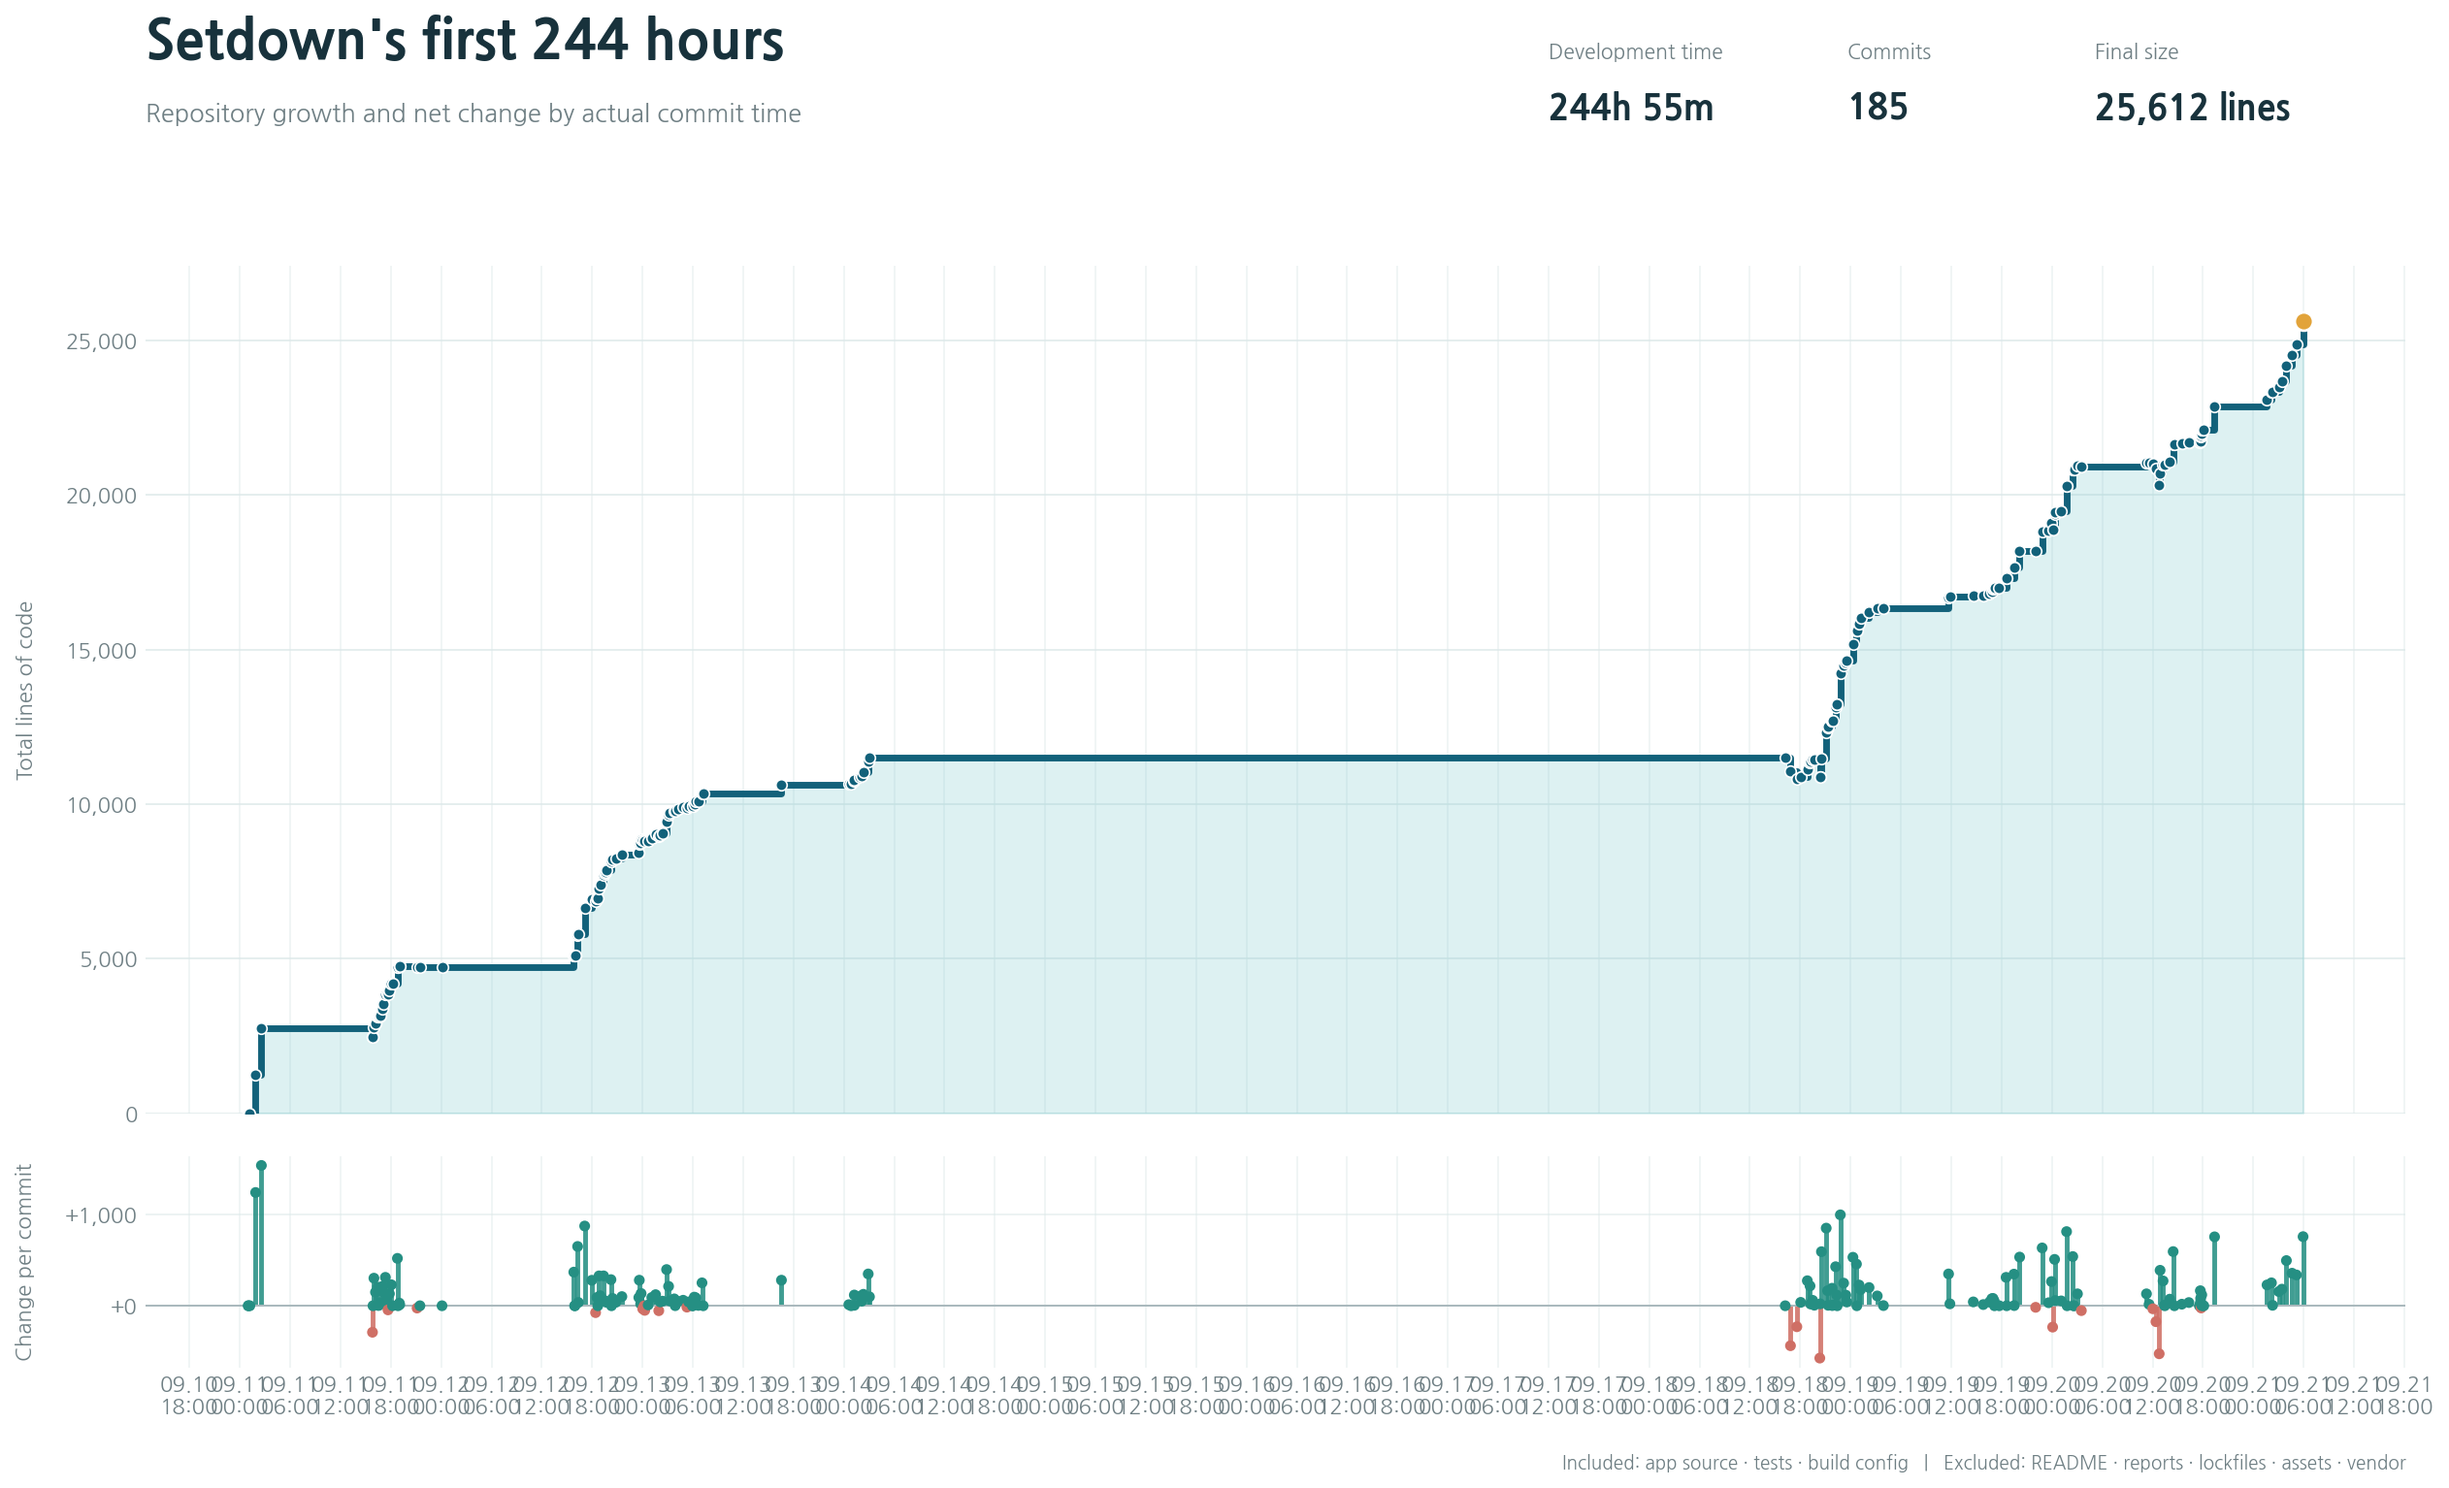
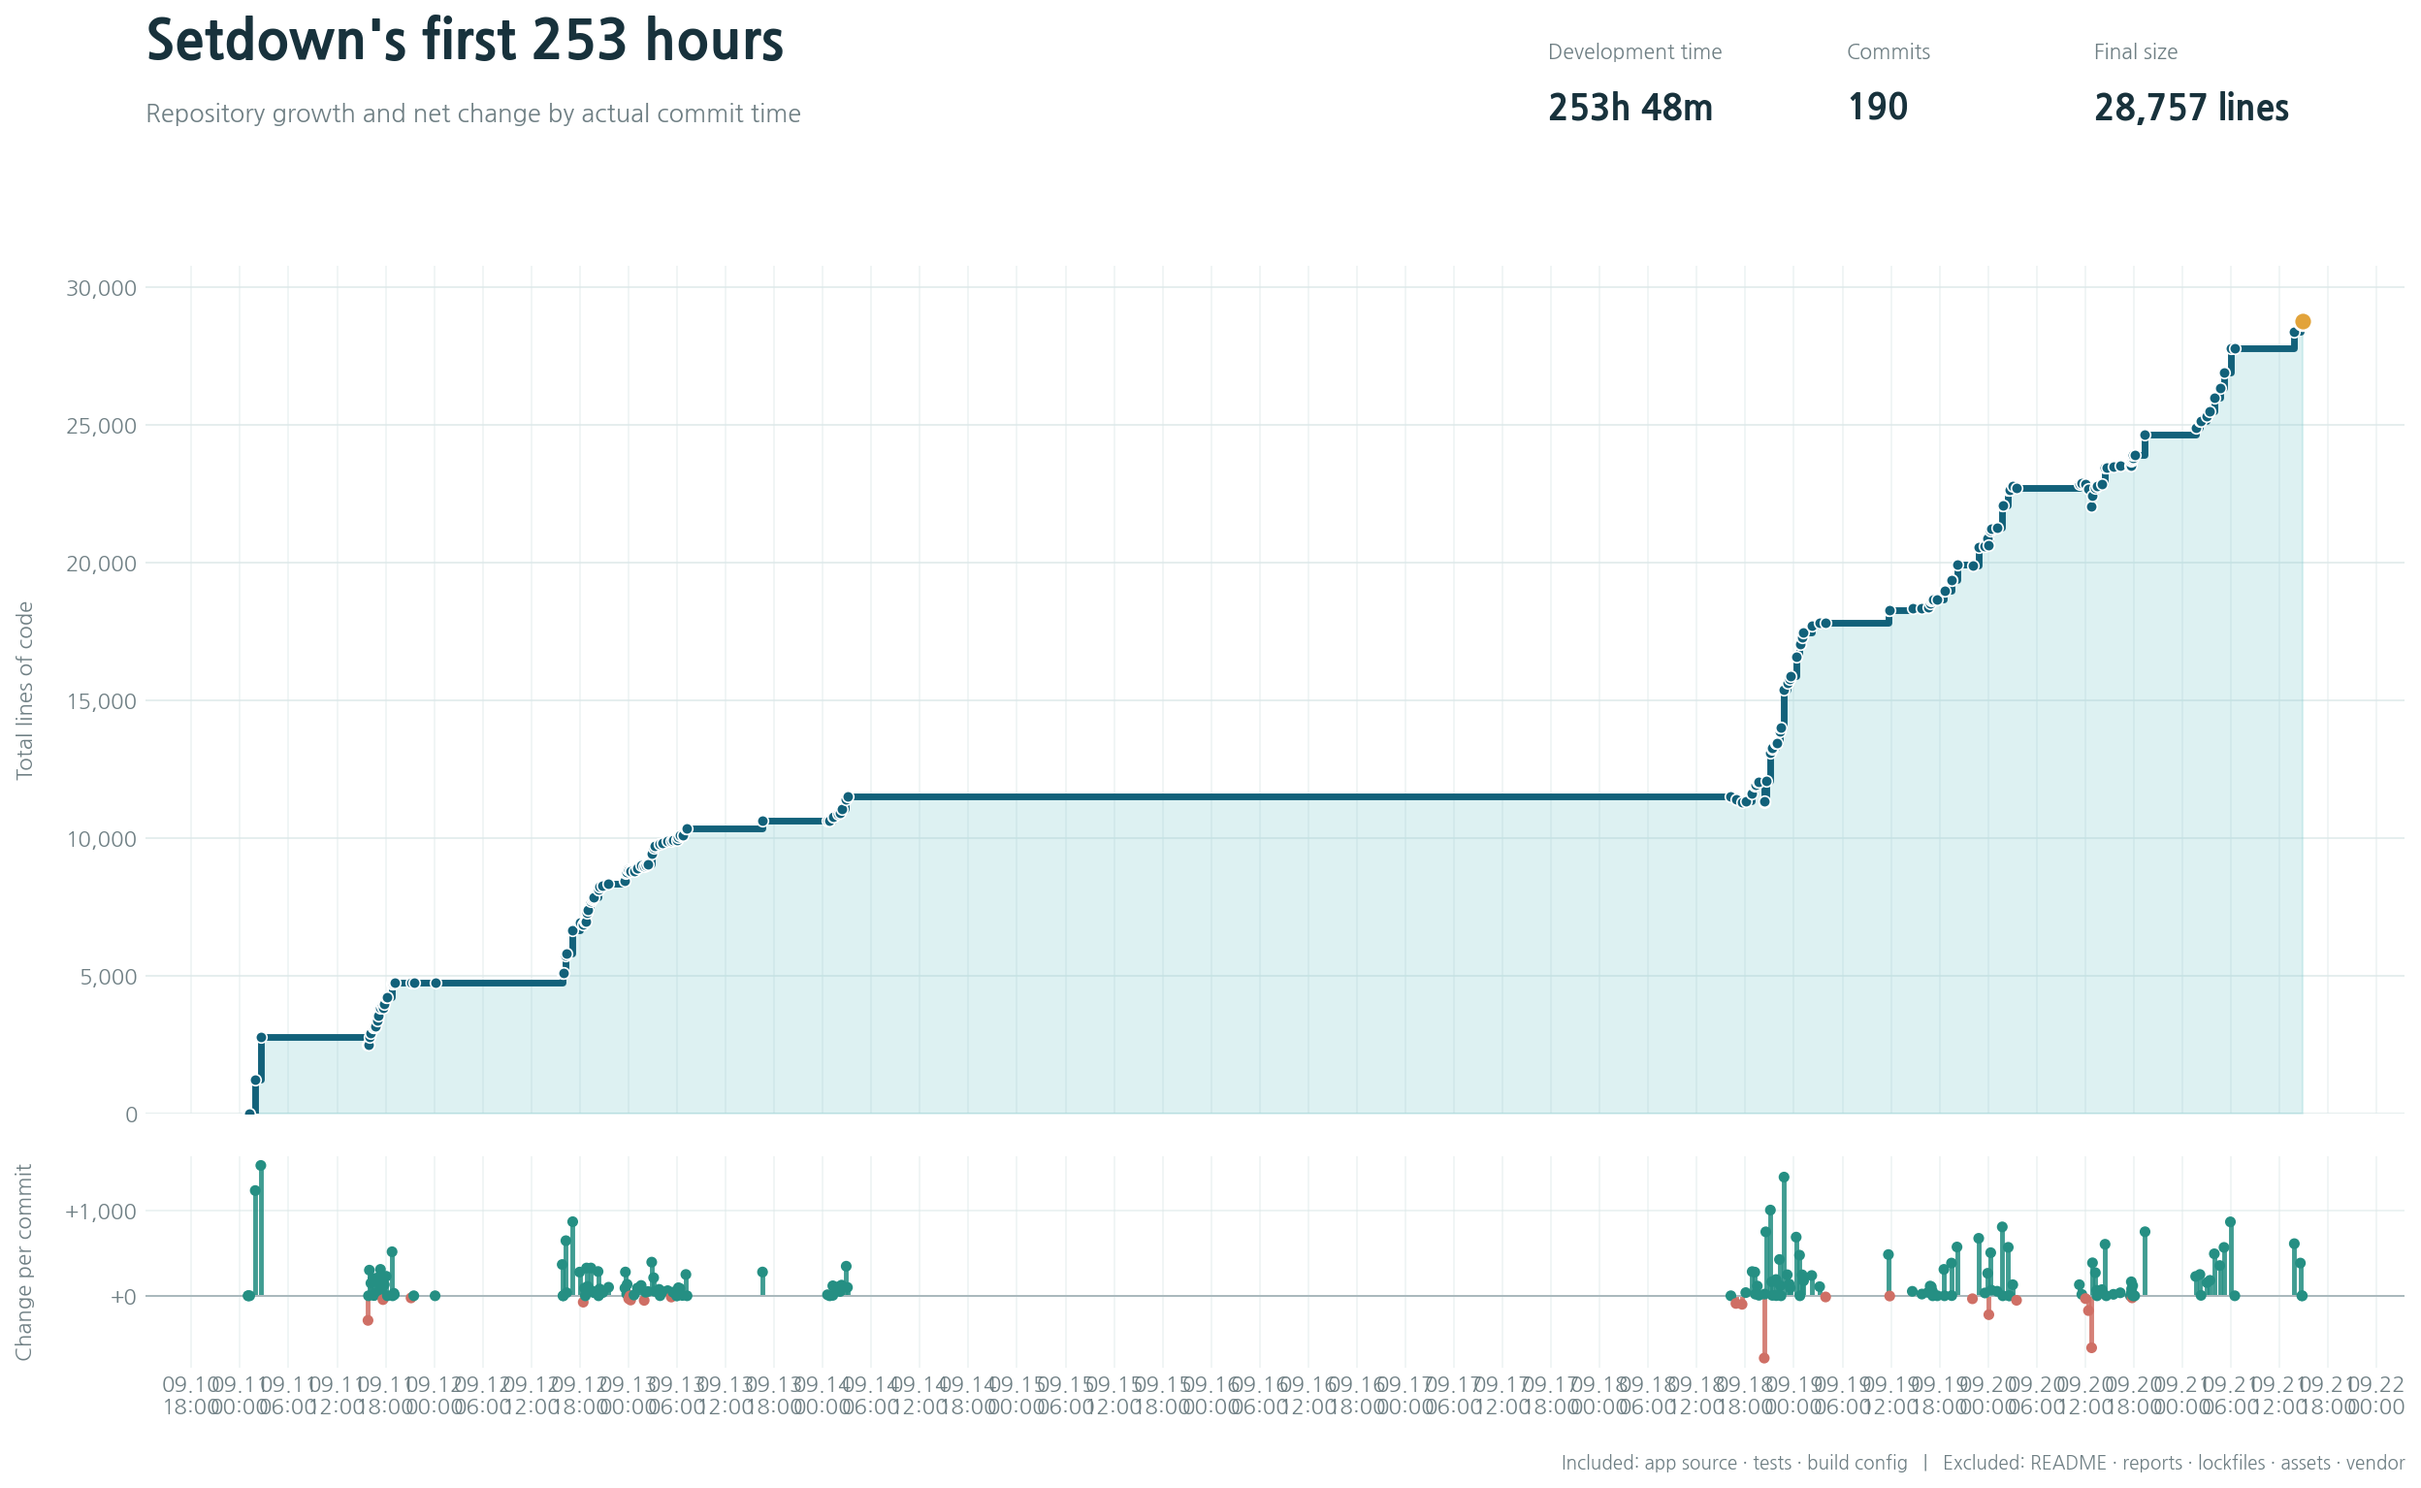
feat: add support for .svelte files in code growth analysis

diff --git a/apps/code-growth/plot-code-growth.py b/apps/code-growth/plot-code-growth.py
@@ -48,7 +48,7 @@ ROOT_CODE_FILES = {
     "apps/desktop/vitest.config.ts",
 }
 CODE_SUFFIXES = {
-    ".ts", ".tsx", ".js", ".mjs", ".cjs", ".css", ".html", ".sh", ".py"
+    ".ts", ".tsx", ".js", ".mjs", ".cjs", ".svelte", ".css", ".html", ".sh", ".py"
 }
 CODE_DIRECTORIES = (
     "src/", "test/", "scripts/",
